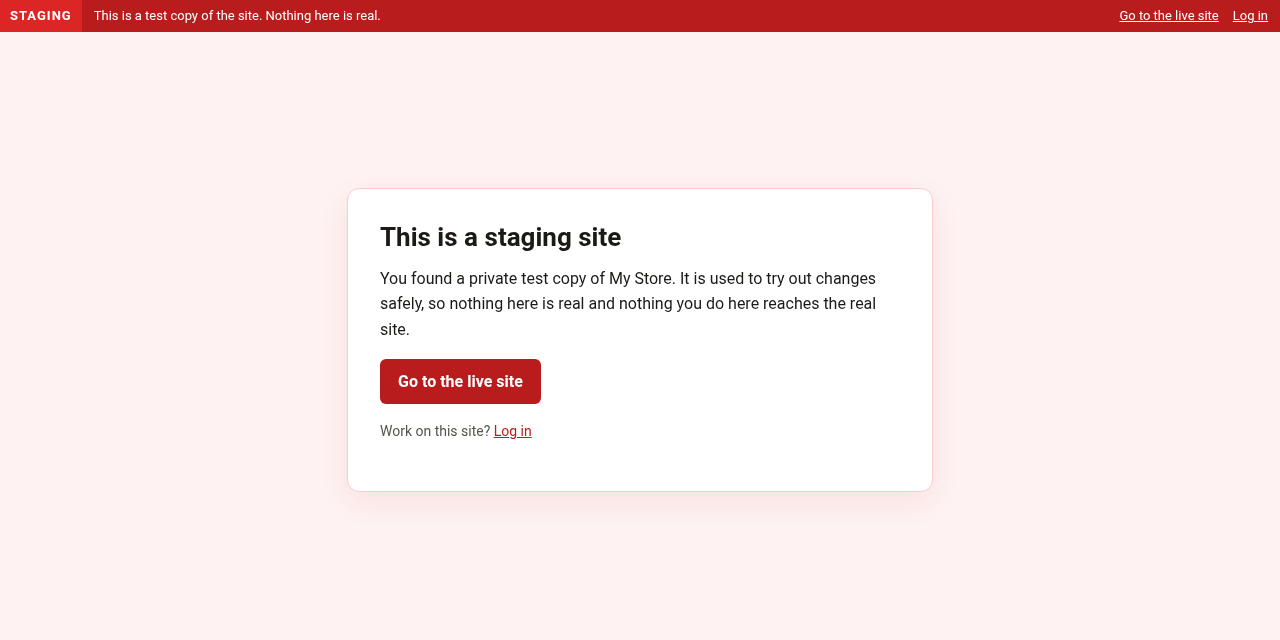
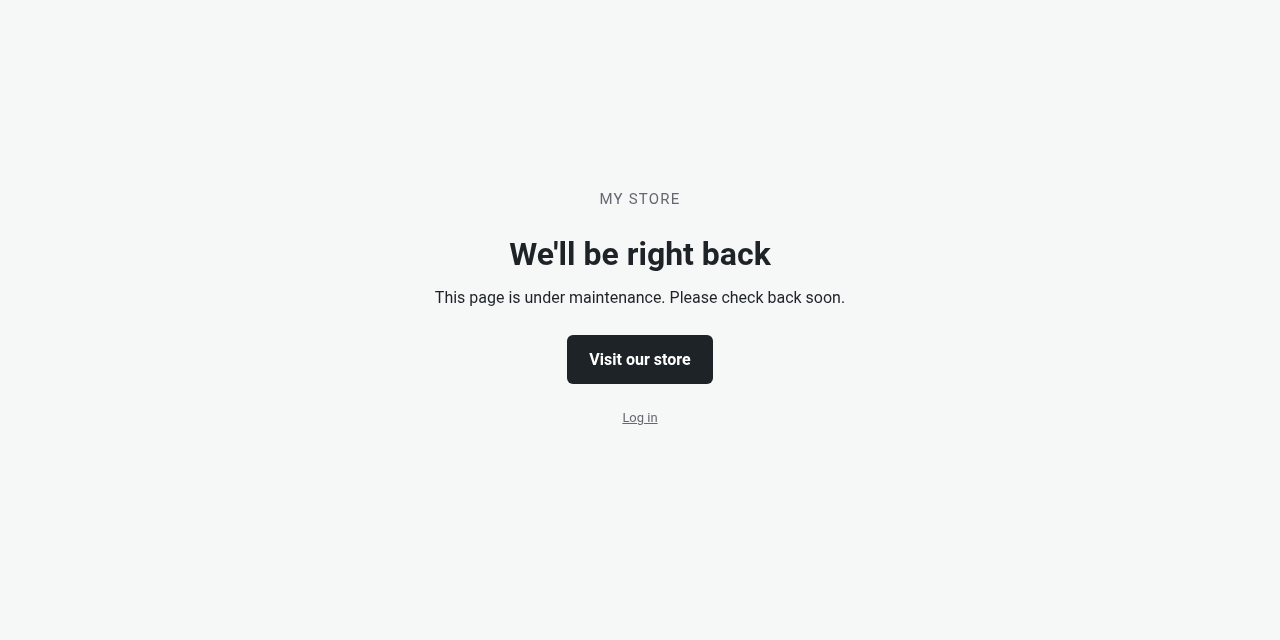
Visitors: three choices, and a neutral under-maintenance page instead of the staging page
STAGING bar (default), same page on live, or a plain "We'll be right back"
page (still 503, noindex, Store API blocked, value "lock") that never
mentions staging. "Show the site as normal" is gone: a saved "off" reads as
the bar. Readme, FAQ, screenshot 6 and the 1.1.1 changelog updated.

Changed region(s): [[0.2812, 0.3438, 0.6875, 0.6875], [0.0, 0.0, 1.0, 0.0625], [0.4688, 0.2812, 0.5312, 0.3125]]

diff --git a/includes/sspw-visitors.php b/includes/sspw-visitors.php
@@ -1,8 +1,8 @@
 <?php
 /**
- * What logged-out visitors and non-staff accounts see: the same page on the
- * live site, a "this is a staging site" page, or the normal site with a
- * STAGING bar. Only loaded when the site is armed.
+ * What logged-out visitors and non-staff accounts see: the normal site with a
+ * STAGING bar, the same page on the live site, or a plain under-maintenance
+ * page. Only loaded when the site is armed.
  */
 
 defined( 'ABSPATH' ) || exit;
@@ -17,8 +17,8 @@ if ( in_array( sspw_get( 'sspw_visitors' ), array( 'redirect', 'lock' ), true ) 
 }
 
 /**
- * The same bar on the visitor page and on the site, looking like the admin bar
- * so it reads as "not the real site" at a glance.
+ * Bar shown on the site in "STAGING bar" mode, looking like the admin bar so it
+ * reads as "not the real site" at a glance.
  */
 function sspw_visitor_bar_html() {
 	$live = sspw_live_url();
@@ -97,20 +97,21 @@ function sspw_visitor_page() {
 		exit;
 	}
 
-	// The page below is a complete document of its own, so its styles are
-	// registered here and printed in its head with wp_print_styles().
+	// A plain maintenance page: a customer who lands here should not have to
+	// know what a staging site is. It is a complete document of its own, so its
+	// styles are registered here and printed in its head with wp_print_styles().
 	wp_register_style( 'sspw-visitor-page', false, array(), SSPW_VERSION );
 	wp_add_inline_style(
 		'sspw-visitor-page',
-		sspw_visitor_bar_css() .
-		'body{margin:0;min-height:100vh;display:flex;align-items:center;justify-content:center;background:#fef2f2;color:#1c1917;font:16px/1.6 -apple-system,BlinkMacSystemFont,"Segoe UI",Roboto,Oxygen-Sans,Ubuntu,Cantarell,"Helvetica Neue",sans-serif;padding:72px 16px 32px;box-sizing:border-box}' .
-		'.sspw-card{max-width:520px;background:#fff;border:1px solid #fecaca;border-radius:12px;padding:32px;box-shadow:0 10px 30px rgba(185,28,28,.08)}' .
-		'.sspw-card h1{margin:0 0 12px;font-size:26px;line-height:1.25}' .
-		'.sspw-card p{margin:0 0 16px}' .
-		'.sspw-button{display:inline-block;background:#b91c1c;color:#fff;text-decoration:none;padding:10px 18px;border-radius:6px;font-weight:600}' .
-		'.sspw-button:hover,.sspw-button:focus{background:#991b1b;color:#fff}' .
-		'.sspw-small{font-size:14px;color:#57534e}' .
-		'.sspw-small a{color:#b91c1c}'
+		'body{margin:0;min-height:100vh;display:flex;align-items:center;justify-content:center;background:#f6f7f7;color:#1d2327;font:16px/1.6 -apple-system,BlinkMacSystemFont,"Segoe UI",Roboto,Oxygen-Sans,Ubuntu,Cantarell,"Helvetica Neue",sans-serif;padding:32px 16px;box-sizing:border-box;text-align:center}' .
+		'.sspw-card{max-width:480px}' .
+		'.sspw-name{margin:0 0 24px;font-size:15px;letter-spacing:.08em;text-transform:uppercase;color:#646970}' .
+		'.sspw-card h1{margin:0 0 12px;font-size:32px;line-height:1.2}' .
+		'.sspw-card p{margin:0 0 24px}' .
+		'.sspw-button{display:inline-block;background:#1d2327;color:#fff;text-decoration:none;padding:12px 22px;border-radius:6px;font-weight:600}' .
+		'.sspw-button:hover,.sspw-button:focus{background:#3c434a;color:#fff}' .
+		'.sspw-small{margin-top:40px;font-size:13px;color:#646970}' .
+		'.sspw-small a{color:#646970}'
 	);
 
 	status_header( 503 );
@@ -126,31 +127,21 @@ function sspw_visitor_page() {
 <meta charset="<?php bloginfo( 'charset' ); ?>">
 <meta name="viewport" content="width=device-width, initial-scale=1">
 <meta name="robots" content="noindex, nofollow">
-<title><?php echo esc_html( sprintf( /* translators: %s: site name */ __( 'Staging site: %s', 'staging-superpowers' ), $name ) ); ?></title>
+<title><?php echo esc_html( sprintf( /* translators: %s: site name */ __( 'Under maintenance: %s', 'staging-superpowers' ), $name ) ); ?></title>
 	<?php wp_print_styles( 'sspw-visitor-page' ); ?>
 </head>
 <body>
-	<?php echo sspw_visitor_bar_html(); // phpcs:ignore WordPress.Security.EscapeOutput.OutputNotEscaped -- escaped when built. ?>
 <main class="sspw-card">
-	<h1><?php esc_html_e( 'This is a staging site', 'staging-superpowers' ); ?></h1>
-	<p>
-	<?php
-	/* translators: %s: site name */
-	echo esc_html( sprintf( __( 'You found a private test copy of %s. It is used to try out changes safely, so nothing here is real and nothing you do here reaches the real site.', 'staging-superpowers' ), $name ) );
-	?>
-	</p>
+	<p class="sspw-name"><?php echo esc_html( $name ); ?></p>
+	<h1><?php esc_html_e( 'We\'ll be right back', 'staging-superpowers' ); ?></h1>
+	<p><?php esc_html_e( 'This page is under maintenance. Please check back soon.', 'staging-superpowers' ); ?></p>
 	<?php if ( $live ) : ?>
-		<p><a class="sspw-button" href="<?php echo esc_url( $live ); ?>"><?php esc_html_e( 'Go to the live site', 'staging-superpowers' ); ?></a></p>
+		<p><a class="sspw-button" href="<?php echo esc_url( $live . sspw_current_path() ); ?>"><?php sspw_has_woocommerce() ? esc_html_e( 'Visit our store', 'staging-superpowers' ) : esc_html_e( 'Visit our website', 'staging-superpowers' ); ?></a></p>
 	<?php endif; ?>
 	<p class="sspw-small">
 	<?php if ( is_user_logged_in() ) : ?>
-		<?php
-		/* translators: %s: user display name */
-		echo esc_html( sprintf( __( 'You are logged in as %s, but this account cannot see the staging site.', 'staging-superpowers' ), wp_get_current_user()->display_name ) );
-		?>
 		<a href="<?php echo esc_url( wp_logout_url( sspw_current_url() ) ); ?>"><?php esc_html_e( 'Log out', 'staging-superpowers' ); ?></a>
 	<?php else : ?>
-		<?php esc_html_e( 'Work on this site?', 'staging-superpowers' ); ?>
 		<a href="<?php echo esc_url( wp_login_url( sspw_current_url() ) ); ?>"><?php esc_html_e( 'Log in', 'staging-superpowers' ); ?></a>
 	<?php endif; ?>
 	</p>

diff --git a/includes/sspw-settings.php b/includes/sspw-settings.php
@@ -98,7 +98,14 @@ function sspw_get( $key ) {
 		'sspw_live_url'           => '',
 	);
 
-	return get_option( $key, isset( $defaults[ $key ] ) ? $defaults[ $key ] : '' );
+	$value = get_option( $key, isset( $defaults[ $key ] ) ? $defaults[ $key ] : '' );
+
+	// "Show the site as normal" was removed in 1.1.1: a saved "off" now shows the STAGING bar.
+	if ( 'sspw_visitors' === $key && ! in_array( $value, array( 'bar', 'redirect', 'lock' ), true ) ) {
+		$value = 'bar';
+	}
+
+	return $value;
 }
 
 /**
@@ -319,12 +326,12 @@ function sspw_visitors_description() {
 
 	$text = sprintf(
 		/* translators: %s: login page link */
-		__( 'What people see here when they are logged out, or logged in without permission to edit the site (customers, members, subscribers). With the STAGING bar, you can keep testing the site as a logged-out visitor, while anyone who lands here by mistake, for example from an old link, sees a red bar with a link to your live site. Choose one of the other options to keep everyone except your team out. Your team always sees the site once logged in at %s.', 'staging-superpowers' ),
+		__( 'What people see here when they are logged out, or logged in without permission to edit the site (customers, members, subscribers). With the STAGING bar, you can keep testing the site as a logged-out visitor, while anyone who lands here by mistake, for example from an old link, sees a red bar with a link to your live site. To keep everyone except your team out, send them to the live site, or show them a plain "we\'ll be right back" page that does not mention staging. Your team always sees the site once logged in at %s.', 'staging-superpowers' ),
 		'<a href="' . esc_url( $login ) . '">' . esc_html( preg_replace( '#^https?://#', '', $login ) ) . '</a>'
 	);
 
 	if ( '' === sspw_live_url() && 'redirect' === sspw_get( 'sspw_visitors' ) ) {
-		$text .= ' <strong>' . esc_html__( 'Save your live site address above to send visitors there. Until then, they see the "this is a staging site" page instead.', 'staging-superpowers' ) . '</strong>';
+		$text .= ' <strong>' . esc_html__( 'Save your live site address above to send visitors there. Until then, they see the under-maintenance page instead.', 'staging-superpowers' ) . '</strong>';
 	}
 
 	return $text;
@@ -527,10 +534,9 @@ function sspw_settings_fields() {
 				'css'     => 'min-width:440px;',
 				'default' => 'bar',
 				'options' => array(
-					'bar'      => __( 'Show the site, with a STAGING bar on every page (recommended)', 'staging-superpowers' ),
+					'bar'      => __( 'Show the site with a STAGING bar (recommended)', 'staging-superpowers' ),
 					'redirect' => __( 'Send them to the same page on the live site', 'staging-superpowers' ),
-					'lock'     => __( 'Show a "this is a staging site" page', 'staging-superpowers' ),
-					'off'      => __( 'Show the site as normal (not safe)', 'staging-superpowers' ),
+					'lock'     => __( 'Show an under-maintenance page', 'staging-superpowers' ),
 				),
 			),
 			array(
